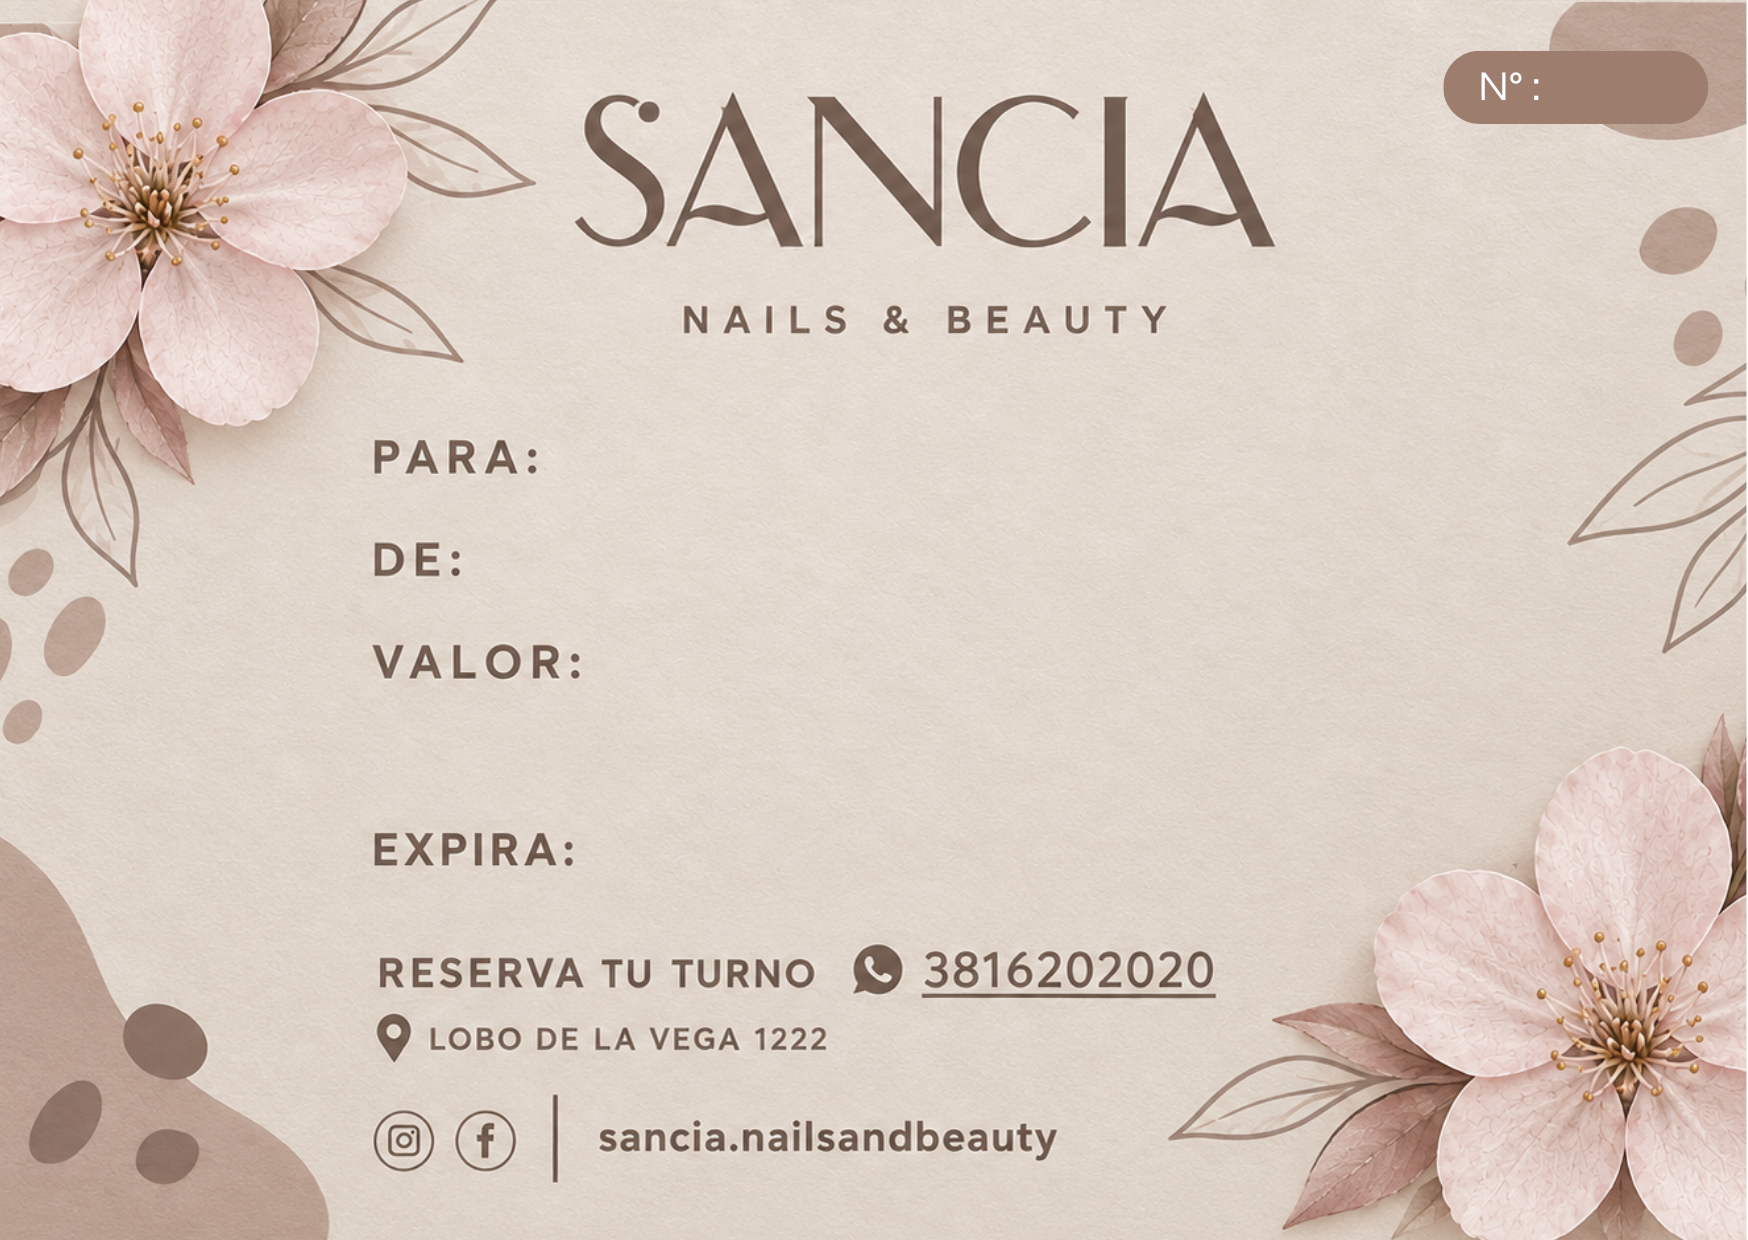
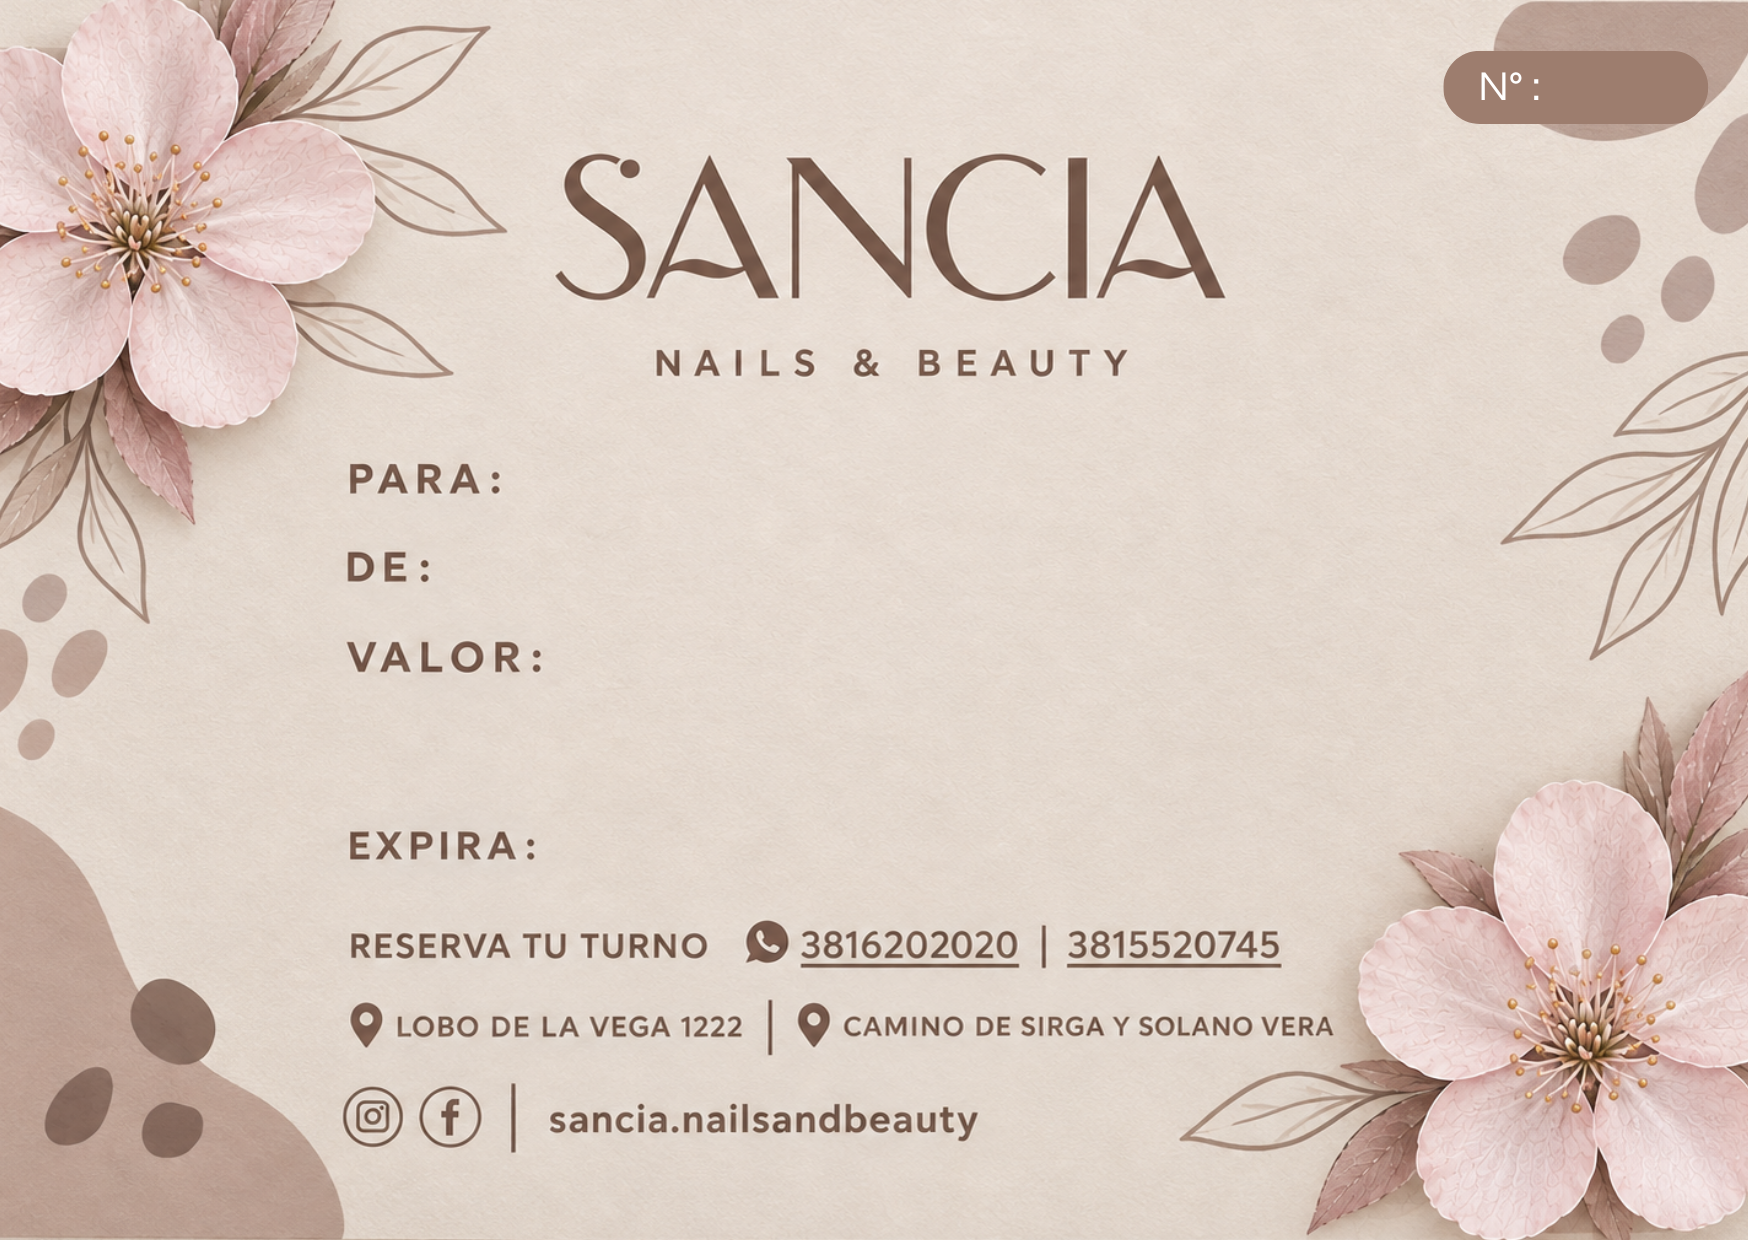
Actualizar diseño y carga automática del voucher
Reemplaza la plantilla por el diseño de las dos sucursales y agrega la sección automática que completa los campos desde un mensaje etiquetado.

diff --git a/index.html b/index.html
@@ -357,6 +357,10 @@ dialog textarea#wm{line-height:1.45;font-size:14px}
 /* Voucher digital */
 .voucher-layout{display:grid;grid-template-columns:minmax(300px,.72fr) minmax(0,1.28fr);gap:16px;align-items:start}
 .voucher-form{display:grid;gap:12px}
+.voucher-auto{display:grid;gap:8px;padding:13px;border:1px solid rgba(59,92,81,.18);border-radius:14px;background:rgba(255,255,255,.45)}
+.voucher-auto strong{color:#3b5c51;font-size:14px}
+.voucher-auto textarea{width:100%;min-height:112px;resize:vertical;padding:11px 12px;border:1px solid rgba(59,92,81,.2);border-radius:12px;background:rgba(255,253,248,.92);color:#302921;font:500 14px/1.5 var(--sans);outline:none}
+.voucher-auto textarea:focus{border-color:#3b5c51;box-shadow:0 0 0 3px rgba(59,92,81,.12)}
 .voucher-form label{display:grid;gap:6px;color:#54483e;font-weight:600;font-size:13px}
 .voucher-form input{width:100%;min-width:0;padding:11px 12px;border:1px solid rgba(59,92,81,.2);border-radius:12px;background:rgba(255,253,248,.92);color:#302921;font:500 14px var(--sans);outline:none}
 .voucher-form input:focus{border-color:#3b5c51;box-shadow:0 0 0 3px rgba(59,92,81,.12)}
@@ -618,7 +622,7 @@ function cols(){
 const bar=(x,c)=>`<div class="bar ${c}"><span>${esc(x.name)} ${x.brand?`<small>${esc(x.brand)}</small>`:''}</span><div class="bar-track"><i style="width:${Math.max(4,x.n/(x.max||1)*100)}%"></i></div><em>${x.n}</em></div>`;
 
 /* ---------- Vistas ---------- */
-let voucherDraft={number:'',to:'',from:'',value:'',date:''};
+let voucherDraft={number:'',to:'',from:'',value:'',date:''},voucherAutoText='',voucherAutoMessage='';
 let voucherTemplateImage=null,voucherTemplatePromise=null,voucherFontsPromise=null;
 const voucherToday=()=>{const d=new Date();d.setMinutes(d.getMinutes()-d.getTimezoneOffset());return d.toISOString().slice(0,10)};
 const voucherExpiry=date=>{const d=new Date(`${date||voucherToday()}T12:00:00`);d.setDate(d.getDate()+30);return `${String(d.getDate()).padStart(2,'0')}/${String(d.getMonth()+1).padStart(2,'0')}/${String(d.getFullYear()).slice(-2)}`};
@@ -628,6 +632,7 @@ function voucherView(){
  const canCreate=window.__nelVoucherCanCreate!==false;
  return `<div class="head hd"><div><h2>Voucher digital</h2><p>Completá los datos y generá una imagen lista para compartir.</p></div></div>
  <div class="voucher-layout"><section class="glass card voucher-form">
+  <div class="voucher-auto"><strong>Sección automática</strong><label for="voucherAutoText">Pegá el mensaje con los datos</label><textarea id="voucherAutoText" placeholder="De: Mariana\nPara: Julieta\nServicio: Manos semipermanentes\nNº: 19509">${esc(voucherAutoText)}</textarea><p class="voucher-hint" id="voucherAutoMessage" aria-live="polite">${esc(voucherAutoMessage||'Al pegar un texto con etiquetas De:, Para:, Servicio:/Valor: o Nº:, se completan los campos automáticamente. Después podés revisarlos o corregirlos.')}</p></div>
   <label>Nº interno de factura *<input id="voucherNumber" type="text" maxlength="18" inputmode="text" autocomplete="off" placeholder="Ej.: 19509" value="${esc(voucherDraft.number)}"></label>
   <label>Para *<input id="voucherTo" type="text" maxlength="42" autocomplete="off" placeholder="Nombre de quien recibe" value="${esc(voucherDraft.to)}"></label>
   <label>De *<input id="voucherFrom" type="text" maxlength="42" autocomplete="off" placeholder="Nombre de quien regala" value="${esc(voucherDraft.from)}"></label>
@@ -637,7 +642,7 @@ function voucherView(){
   <p class="voucher-error" id="voucherError" aria-live="polite"></p>
   <button class="btn" id="voucherDownload" ${canCreate?'':'disabled'}>Descargar voucher como imagen</button>
   ${canCreate?'':'<p class="voucher-hint">Tu cuenta no tiene permiso para generar vouchers. Pedile al administrador acceso de creación.</p>'}
- </section><section class="glass card voucher-preview"><canvas id="voucherCanvas" width="1746" height="1234" aria-label="Vista previa del voucher digital"></canvas></section></div>`
+ </section><section class="glass card voucher-preview"><canvas id="voucherCanvas" width="1748" height="1240" aria-label="Vista previa del voucher digital"></canvas></section></div>`
 }
 function voucherFitText(ctx,text,x,y,maxWidth,fontSize,minSize=30,font='Poppins'){
  let size=fontSize;ctx.font=`400 ${size}px "${font}",sans-serif`;while(size>minSize&&ctx.measureText(text).width>maxWidth){size-=1;ctx.font=`400 ${size}px "${font}",sans-serif`}ctx.fillText(text,x,y)
@@ -649,13 +654,13 @@ async function drawVoucherCanvas(){
  voucherFontsPromise??=Promise.all([document.fonts.load('400 62px Poppins'),document.fonts.load('400 40px Questrial')]);
  try{await voucherFontsPromise}catch{}
  const ctx=canvas.getContext('2d');ctx.clearRect(0,0,canvas.width,canvas.height);ctx.drawImage(voucherTemplateImage,0,0,canvas.width,canvas.height);ctx.fillStyle='#73594b';ctx.textBaseline='alphabetic';ctx.textAlign='left';
- voucherFitText(ctx,voucherDraft.to.trim(),557,480,1100,62,34);voucherFitText(ctx,voucherDraft.from.trim(),480,580,1170,62,34);voucherFitText(ctx,voucherDraft.value.trim(),589,679,1090,62,34);voucherFitText(ctx,voucherExpiry(voucherDraft.date),589,866,540,62,36);
+ voucherFitText(ctx,voucherDraft.to.trim(),515,496,1160,62,34);voucherFitText(ctx,voucherDraft.from.trim(),434,584,1240,62,34);voucherFitText(ctx,voucherDraft.value.trim(),553,675,1110,62,34);voucherFitText(ctx,voucherExpiry(voucherDraft.date),549,863,570,62,36);
  ctx.fillStyle='#ffffff';voucherFitText(ctx,voucherDraft.number.trim(),1543,100,155,40,22,'Questrial');
  return true;
 }
 function downloadVoucher(){
  const number=$('#voucherNumber')?.value.trim()||'',to=$('#voucherTo')?.value.trim()||'',from=$('#voucherFrom')?.value.trim()||'',value=$('#voucherValue')?.value.trim()||'',error=$('#voucherError');
- voucherDraft={...voucherDraft,number,to,from,value};
+ voucherDraft={...voucherDraft,number,to,from,value,date:voucherToday()};
  if(!number||!to||!from||!value){error.textContent='Completá el Nº interno, Para, De y Valor / servicio.';return}
  if(window.__nelVoucherCanCreate===false){error.textContent='Tu cuenta no tiene permiso para generar vouchers.';return}
  error.textContent='';drawVoucherCanvas().then(ok=>{if(!ok)return;const canvas=$('#voucherCanvas');canvas?.toBlob(blob=>{if(!blob){error.textContent='No se pudo preparar la imagen. Revisá que la plantilla esté disponible.';return}const link=document.createElement('a');link.href=URL.createObjectURL(blob);link.download=`Voucher-Sancia-${number.replace(/[^a-zA-Z0-9_-]/g,'_')}.png`;link.click();setTimeout(()=>URL.revokeObjectURL(link.href),1500);toast('Voucher descargado como imagen')},'image/png')})
@@ -1421,6 +1426,15 @@ $('#main').onclick=e=>{
    else{const p=P.find(x=>x.id===t.dataset.id);if(!p)return;({edit:()=>openEdit(p),out:()=>openOut(p),plus:()=>openPlus(p),del:()=>remove(p),replenish:()=>replenishFromRepo(p),putToUse:()=>openOut(p)})[t.dataset.a]?.()}
 };
 $('#main').oninput=e=>{
+ if(e.target.id==='voucherAutoText'){
+  voucherAutoText=e.target.value;const parsed={};
+  const label=/^\s*(n\s*(?:[º°o.]|ro)?(?:\s+interno)?(?:\s+de\s+factura)?|n[uú]mero(?:\s+interno)?(?:\s+de\s+factura)?|factura(?:\s+n\s*(?:[º°o.]|ro)?)?|para|de|valor(?:\s*\/\s*servicio)?|servicio)\s*[:\-]\s*(.*?)\s*$/i;
+  for(const line of voucherAutoText.split(/\r?\n/)){const match=line.match(label);if(!match||!match[2])continue;const key=match[1].toLocaleLowerCase('es').normalize('NFD').replace(/[\u0300-\u036f]/g,'').replace(/\s+/g,'');const field=/^n|^numero|^factura/.test(key)?'number':key==='para'?'to':key==='de'?'from':'value';if(!parsed[field])parsed[field]=match[2].trim()}
+  const names={number:'Nº interno',to:'Para',from:'De',value:'Servicio/valor'},found=[];
+  for(const [key,value] of Object.entries(parsed)){voucherDraft[key]=value;const input=$(`#voucher${key==='number'?'Number':key==='to'?'To':key==='from'?'From':'Value'}`);if(input)input.value=value;found.push(names[key])}
+  voucherAutoMessage=found.length?`Detecté ${found.join(', ')}. Revisá los campos y completá los que falten.`:'Todavía no detecté campos. Usá una etiqueta por línea, por ejemplo: Para: Julieta.';
+  const status=$('#voucherAutoMessage');if(status)status.textContent=voucherAutoMessage;drawVoucherCanvas();return
+ }
   if(['voucherNumber','voucherTo','voucherFrom','voucherValue'].includes(e.target.id)){voucherDraft[e.target.id==='voucherNumber'?'number':e.target.id==='voucherTo'?'to':e.target.id==='voucherFrom'?'from':'value']=e.target.value;drawVoucherCanvas();return}
  if(e.target.id==='claimSearch'){claimQuery=e.target.value;$('#claimList').innerHTML=claimRows(claimsForPeriod());return}
  if(e.target.id==='dq'){dl.q=e.target.value;dl.lim=60;$('#dbody').innerHTML=dBody();return}

diff --git a/sw.js b/sw.js
@@ -1,4 +1,4 @@
-const C='nel-stock-v36',F=['./','index.html','manifest.webmanifest','icons/icon-192.png','icons/icon-512.png','voucher-template.png'];
+const C='nel-stock-v37',F=['./','index.html','manifest.webmanifest','icons/icon-192.png','icons/icon-512.png','voucher-template.png'];
 self.addEventListener('install',e=>{e.waitUntil(caches.open(C).then(c=>c.addAll(F)));self.skipWaiting()});
 self.addEventListener('activate',e=>e.waitUntil(caches.keys().then(k=>Promise.all(k.filter(x=>x!==C).map(x=>caches.delete(x)))).then(()=>clients.claim())));
 self.addEventListener('fetch',e=>{
